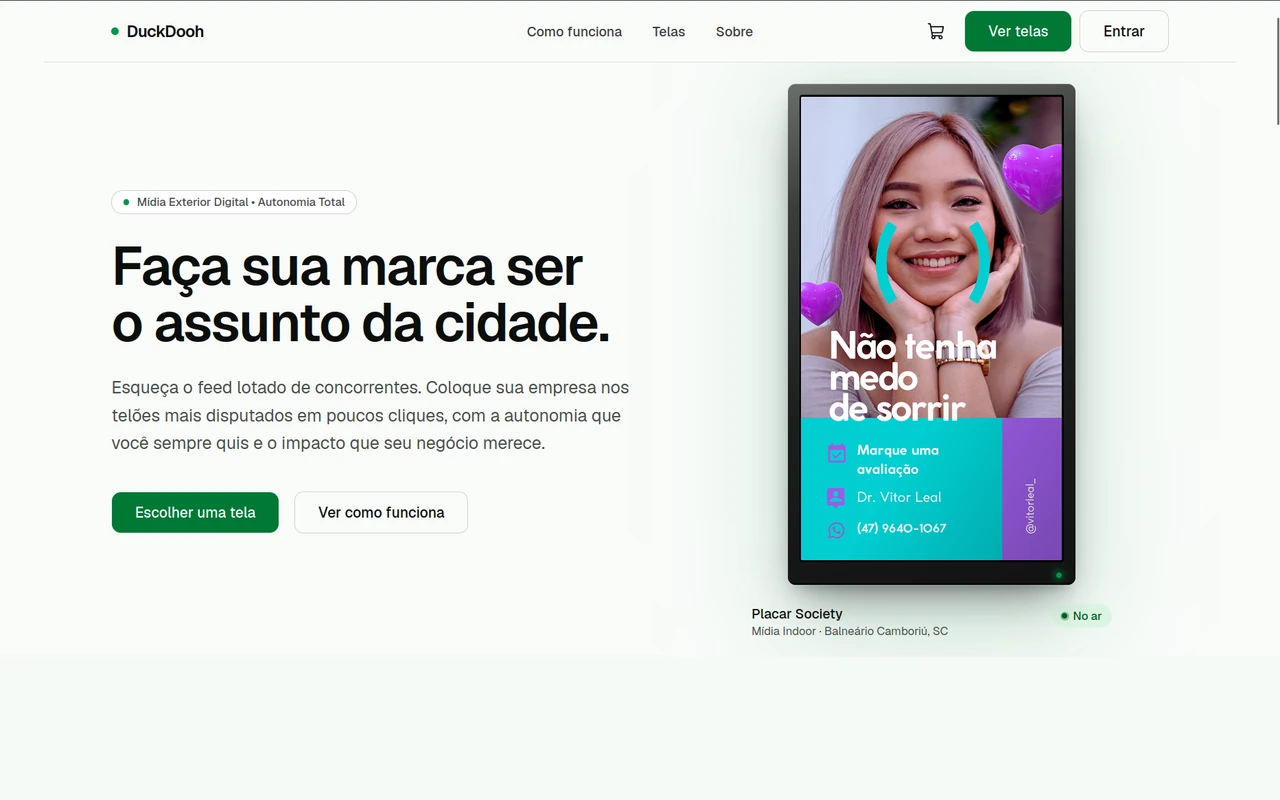
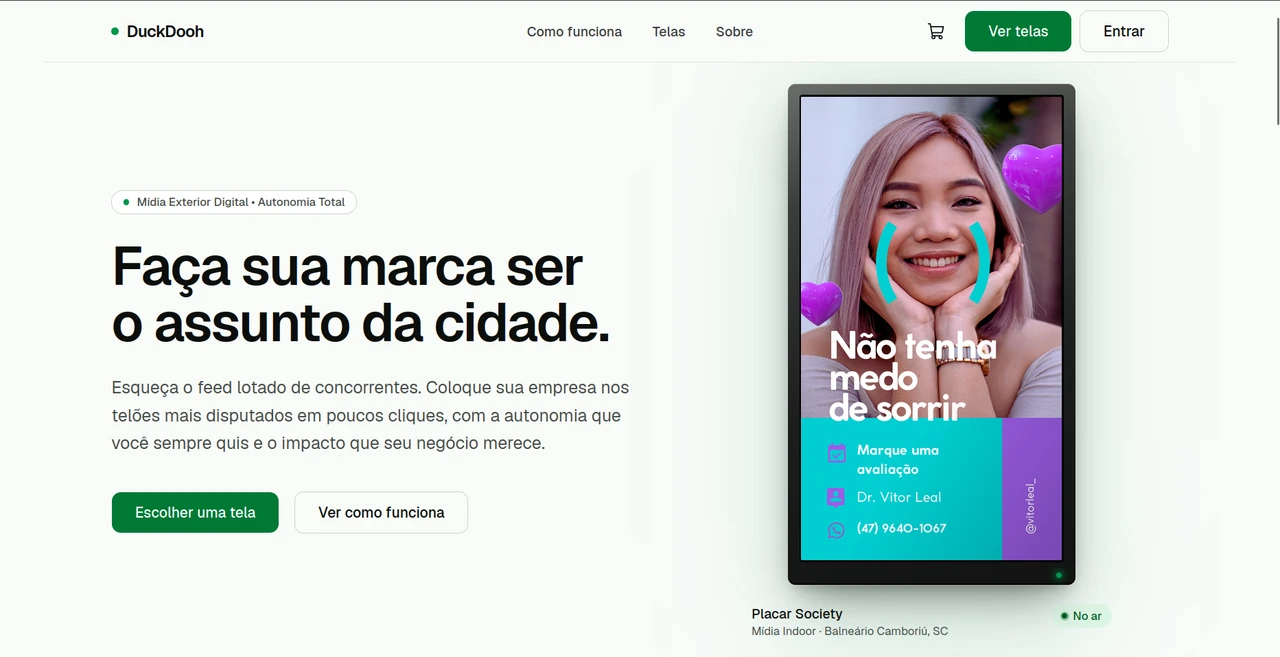
Resize product screenshots without padding

diff --git a/styles.css b/styles.css
@@ -14,7 +14,7 @@
 
 .private-project{display:block;font-family:Plex,monospace;font-size:11px;color:var(--muted);min-height:44px;line-height:44px}
 /* Hero 44: credentials beside a real hanging badge, with automatic WebGL interaction. */
-.hero{grid-template-columns:minmax(0,1.45fr) minmax(0,1fr);padding-block:55px 38px;min-height:640px;gap:40px}.hero h1{font-size:clamp(38px,4.5vw,60px);line-height:1.1;letter-spacing:-.045em}.hero-role{font-size:clamp(20px,2.3vw,29px);color:var(--muted);margin-top:14px;line-height:1.3}.hero-description{max-width:540px;font-size:16px;margin-top:22px}.hero-actions{display:flex;gap:12px;flex-wrap:wrap}.hero .button{margin-top:25px;border-radius:30px;min-height:44px;padding:10px 19px}.button-outline{border:1px solid var(--border)}.hero-credentials{display:flex;gap:26px;margin-top:32px;align-items:start}.hero-credentials a{width:120px;font-size:10px;text-align:center;color:var(--muted);line-height:1.4}.hero-credentials img{width:76px;height:76px;object-fit:contain;margin:0 auto 8px}.hero-credentials a:hover{color:var(--text)}.hero-card{position:relative;height:550px;align-self:start;margin-top:-50px;display:flex;align-items:end;justify-content:center}.hero-card>img{position:absolute;top:0;left:50%;transform:translateX(-50%);width:380px;max-width:100%;height:515px;object-fit:contain}.card-ready>img{visibility:hidden}.lanyard-stage{width:100%;height:100%;position:relative}.lanyard-stage .pointer-events-none{pointer-events:none}.lanyard-stage .hidden{display:none}.lanyard-stage .fill-primary{fill:var(--accent)}.tool-strip{padding:12px 0 48px;overflow:hidden}.tool-strip-heading{display:flex;align-items:center;justify-content:space-between;color:var(--muted);font-family:Plex,monospace;font-size:10px;margin-bottom:18px}.tool-strip-heading button{font-family:Space,sans-serif;font-size:11px;min-height:32px;text-decoration:underline;text-underline-offset:4px}.tools-viewport{overflow:hidden;mask-image:linear-gradient(90deg,transparent,#000 3%,#000 97%,transparent)}.tools-track{display:flex;width:max-content;animation:tools-scroll 60s linear infinite}.tools-track ul{display:flex;gap:22px;list-style:none;padding:0 22px 0 0;margin:0}.tools-track li{width:92px;height:88px;display:flex;align-items:center;justify-content:center;flex-direction:column;gap:8px;background:var(--surface);border-radius:8px;font-size:10px}.tool-icon{width:34px;height:34px;display:block;background:var(--text);mask-size:contain;mask-repeat:no-repeat;mask-position:center}.tool-strip:hover .tools-track,.tool-strip:focus-within .tools-track,.tool-strip.paused .tools-track{animation-play-state:paused}@keyframes tools-scroll{to{transform:translateX(-50%)}}.project-preview{display:block;background:var(--surface-alt);padding:16px 16px 0}.project-preview img{width:100%;aspect-ratio:16/10;object-fit:cover;object-position:top;border-radius:10px 10px 0 0}.project-preview>span{display:flex;justify-content:space-between;font-family:Plex,monospace;font-size:10px;color:var(--muted);padding:10px 2px}.build-notes{font-size:13px;line-height:1.75;margin-block:24px 18px;color:var(--muted)}.build-notes h4{font-size:12px;color:var(--text);font-weight:500;margin:0 0 8px}.project-content{padding:28px 32px}.project-type{margin-bottom:15px}
+.hero{grid-template-columns:minmax(0,1.45fr) minmax(0,1fr);padding-block:55px 38px;min-height:640px;gap:40px}.hero h1{font-size:clamp(38px,4.5vw,60px);line-height:1.1;letter-spacing:-.045em}.hero-role{font-size:clamp(20px,2.3vw,29px);color:var(--muted);margin-top:14px;line-height:1.3}.hero-description{max-width:540px;font-size:16px;margin-top:22px}.hero-actions{display:flex;gap:12px;flex-wrap:wrap}.hero .button{margin-top:25px;border-radius:30px;min-height:44px;padding:10px 19px}.button-outline{border:1px solid var(--border)}.hero-credentials{display:flex;gap:26px;margin-top:32px;align-items:start}.hero-credentials a{width:120px;font-size:10px;text-align:center;color:var(--muted);line-height:1.4}.hero-credentials img{width:76px;height:76px;object-fit:contain;margin:0 auto 8px}.hero-credentials a:hover{color:var(--text)}.hero-card{position:relative;height:550px;align-self:start;margin-top:-50px;display:flex;align-items:end;justify-content:center}.hero-card>img{position:absolute;top:0;left:50%;transform:translateX(-50%);width:380px;max-width:100%;height:515px;object-fit:contain}.card-ready>img{visibility:hidden}.lanyard-stage{width:100%;height:100%;position:relative}.lanyard-stage .pointer-events-none{pointer-events:none}.lanyard-stage .hidden{display:none}.lanyard-stage .fill-primary{fill:var(--accent)}.tool-strip{padding:12px 0 48px;overflow:hidden}.tool-strip-heading{display:flex;align-items:center;justify-content:space-between;color:var(--muted);font-family:Plex,monospace;font-size:10px;margin-bottom:18px}.tool-strip-heading button{font-family:Space,sans-serif;font-size:11px;min-height:32px;text-decoration:underline;text-underline-offset:4px}.tools-viewport{overflow:hidden;mask-image:linear-gradient(90deg,transparent,#000 3%,#000 97%,transparent)}.tools-track{display:flex;width:max-content;animation:tools-scroll 60s linear infinite}.tools-track ul{display:flex;gap:22px;list-style:none;padding:0 22px 0 0;margin:0}.tools-track li{width:92px;height:88px;display:flex;align-items:center;justify-content:center;flex-direction:column;gap:8px;background:var(--surface);border-radius:8px;font-size:10px}.tool-icon{width:34px;height:34px;display:block;background:var(--text);mask-size:contain;mask-repeat:no-repeat;mask-position:center}.tool-strip:hover .tools-track,.tool-strip:focus-within .tools-track,.tool-strip.paused .tools-track{animation-play-state:paused}@keyframes tools-scroll{to{transform:translateX(-50%)}}.project-preview{display:block;background:var(--surface-alt);padding:16px 16px 0}.project-preview img{width:100%;aspect-ratio:1280/657;border-radius:10px 10px 0 0}.project-preview>span{display:flex;justify-content:space-between;font-family:Plex,monospace;font-size:10px;color:var(--muted);padding:10px 2px}.build-notes{font-size:13px;line-height:1.75;margin-block:24px 18px;color:var(--muted)}.build-notes h4{font-size:12px;color:var(--text);font-weight:500;margin:0 0 8px}.project-content{padding:28px 32px}.project-type{margin-bottom:15px}
 @media(max-width:1000px){.hero{gap:15px}.hero h1{font-size:43px}.hero-card{height:520px}.hero-credentials{gap:12px}.hero-credentials a{width:100px}.hero-credentials img{width:66px;height:66px}}
 @media(max-width:767px){.hero{grid-template-columns:1fr;padding-top:70px;gap:12px}.hero h1{font-size:clamp(35px,8vw,52px)}.hero-role{font-size:22px}.hero-card{margin-top:0;height:430px;max-width:360px;width:100%;justify-self:center}.hero-card>img{height:400px;width:295px}.hero-credentials{justify-content:start;gap:12px;margin-top:26px}.hero-credentials a{width:94px}.hero-credentials img{width:65px;height:65px}.tool-strip{padding-top:0;padding-bottom:35px}.tool-strip-heading{font-size:9px;gap:12px}.project-content{padding:24px}.tools-track li{width:78px;height:78px}.tools-track ul{gap:14px;padding-right:14px}}
 @media(prefers-reduced-motion:reduce){.tools-viewport{overflow:visible;mask-image:none}.tools-track{width:100%;display:block}.tools-track ul{flex-wrap:wrap;gap:12px;padding:0}.tools-track ul[aria-hidden]{display:none}.tool-strip-heading button{display:none}}

diff --git a/index.html b/index.html
@@ -57,7 +57,7 @@
       <div class="section-heading"><h2 id="projects-title" data-i18n="projectsTitle">Ideias que viram sistemas.</h2><p data-i18n="projectsDescription">Dois produtos reais: da interface à operação e aos dados.</p></div>
       <div class="project-grid">
         <article class="project" data-category="apps">
-          <a class="project-preview" href="https://duckdooh.com" target="_blank" rel="noopener noreferrer"><img src="assets/duckdooh-preview.webp" alt="Preview da interface de DuckDooh" width="1280" height="800" loading="lazy"><span>duckdooh.com <span aria-hidden="true">↗</span></span></a>
+          <a class="project-preview" href="https://duckdooh.com" target="_blank" rel="noopener noreferrer"><img src="assets/duckdooh-preview.webp" alt="Preview da interface de DuckDooh" width="1280" height="657" loading="lazy"><span>duckdooh.com <span aria-hidden="true">↗</span></span></a>
           <div class="project-content">
             <p class="project-type" data-i18n="duckType">Mídia exterior digital</p><h3>DuckDooh</h3>
             <p class="project-description" data-i18n="duckDescription">Plataforma self-service para descobrir telas, contratar campanhas e conectar mídia digital à veiculação.</p>
@@ -67,7 +67,7 @@
           </div>
         </article>
         <article class="project" data-category="apps">
-          <a class="project-preview" href="https://ortoclean.duckdns.org/login-teste" target="_blank" rel="noopener noreferrer"><img src="assets/ortoclean-preview.webp" alt="Preview da interface de OrtoClean" width="1280" height="800" loading="lazy"><span>ortoclean.duckdns.org/login-teste <span aria-hidden="true">↗</span></span></a>
+          <a class="project-preview" href="https://ortoclean.duckdns.org/login-teste" target="_blank" rel="noopener noreferrer"><img src="assets/ortoclean-preview.webp" alt="Preview da interface de OrtoClean" width="1280" height="657" loading="lazy"><span>ortoclean.duckdns.org/login-teste <span aria-hidden="true">↗</span></span></a>
           <div class="project-content">
             <p class="project-type" data-i18n="ortoType">Gestão odontológica</p><h3>OrtoClean</h3>
             <p class="project-description" data-i18n="ortoDescription">Sistema para a operação da clínica: pacientes, agenda, vendas, financeiro e comunicação no mesmo produto.</p>
